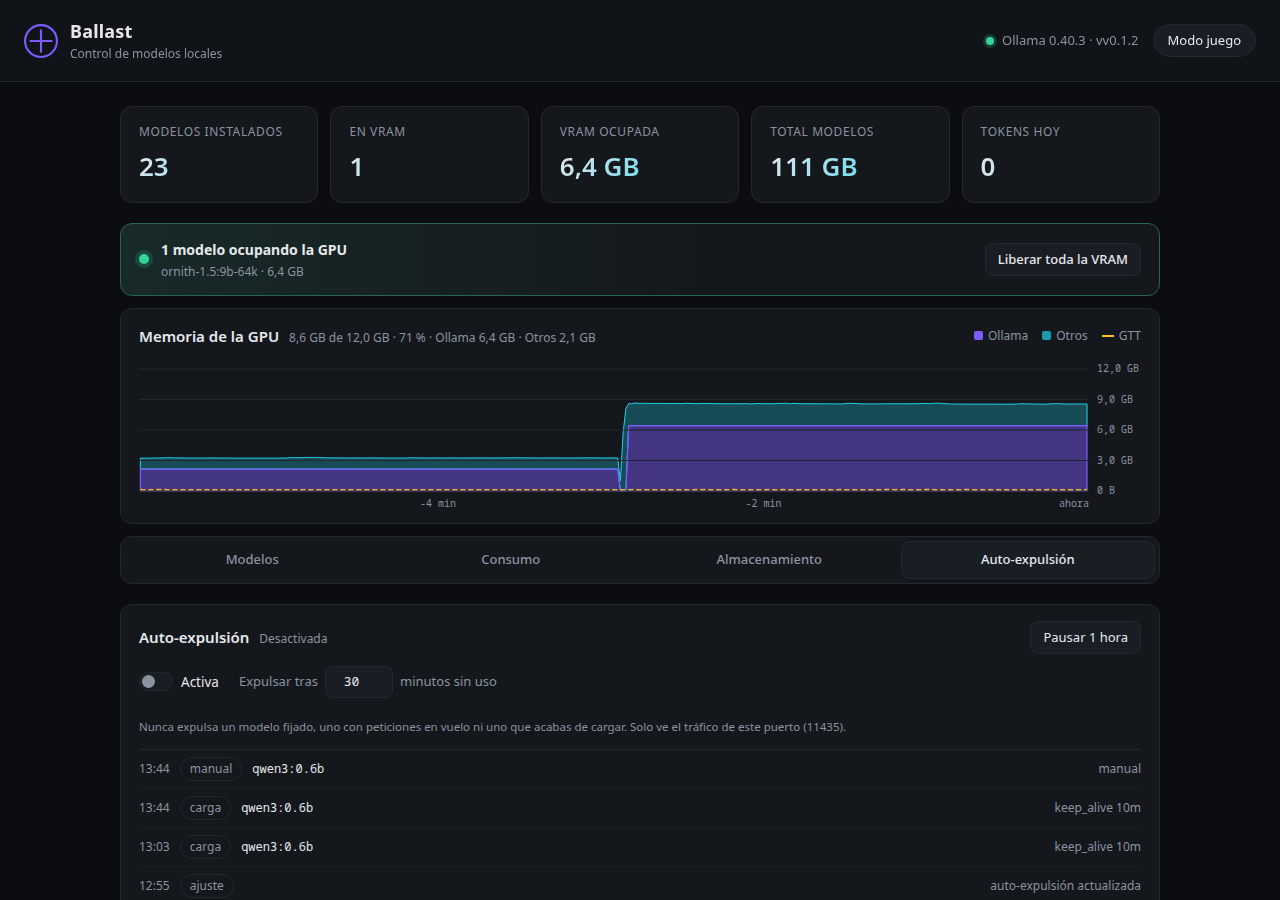
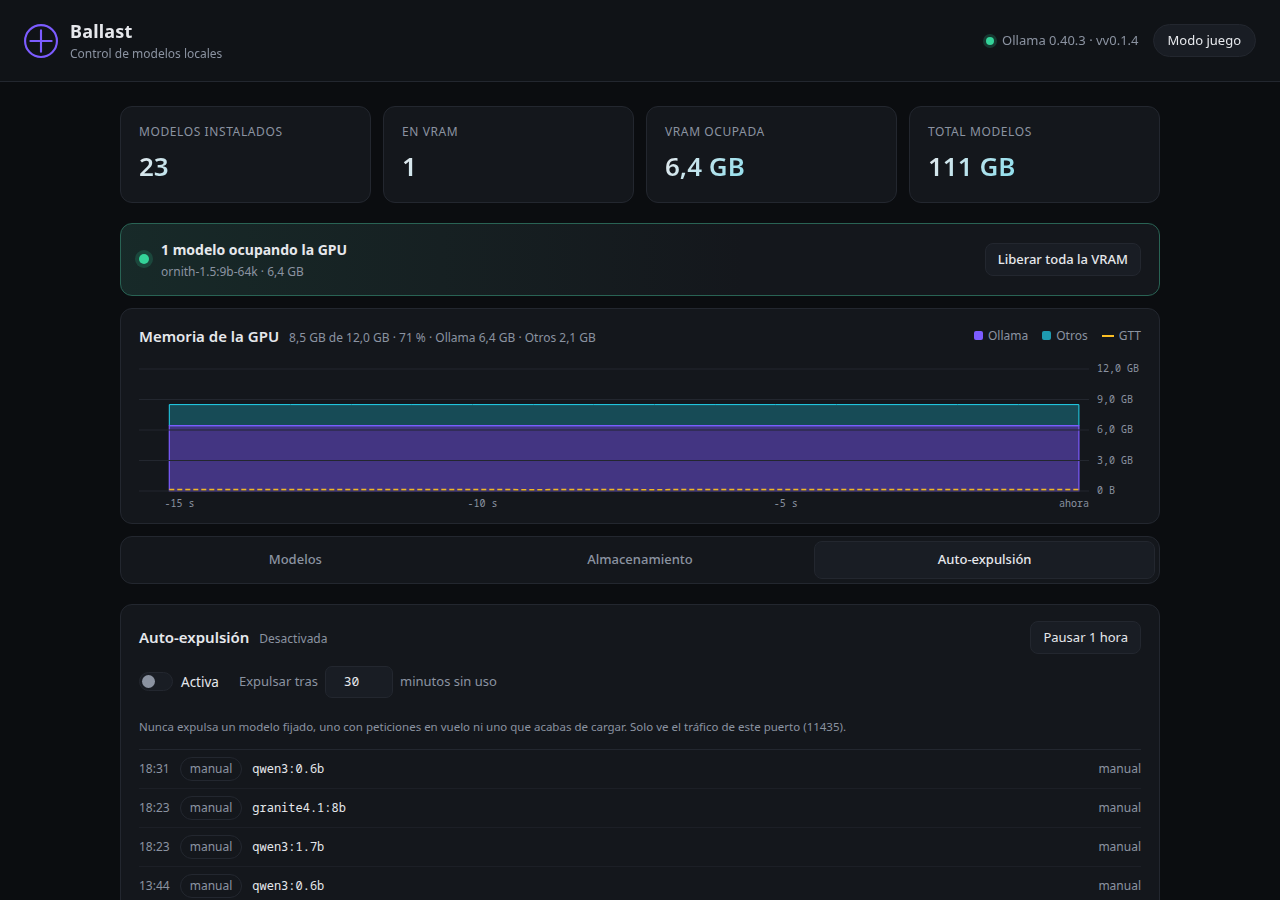
Actualiza el README y las capturas a la interfaz por pestañas

diff --git a/README.md b/README.md
@@ -54,7 +54,7 @@ cambiar nada; si tus clientes van directos a `11434`, funcionan igual.
 
 ## Estado
 
-Versión publicada (`v0.1.2`): fases 1–4 funcionan a diario.
+Versión publicada (`v0.1.4`): fases 1–4 funcionan a diario.
 
 | Fase | Contenido | Estado |
 |---|---|---|
@@ -85,8 +85,8 @@ ballast [flags]
 
 Variables de entorno equivalentes: `BALLAST_LISTEN`, `BALLAST_OLLAMA_URL`.
 
-Datos en `~/.local/share/ballast/` (o `BALLAST_DATA_DIR`): `ballast.db` con el
-histórico de consumo y `state.json` con el modo juego.
+Datos en `~/.local/share/ballast/` (o `BALLAST_DATA_DIR`): `ballast.db` con los
+modelos fijados y la auditoría, y `state.json` con el modo juego.
 
 ## Cómo está hecho
 
